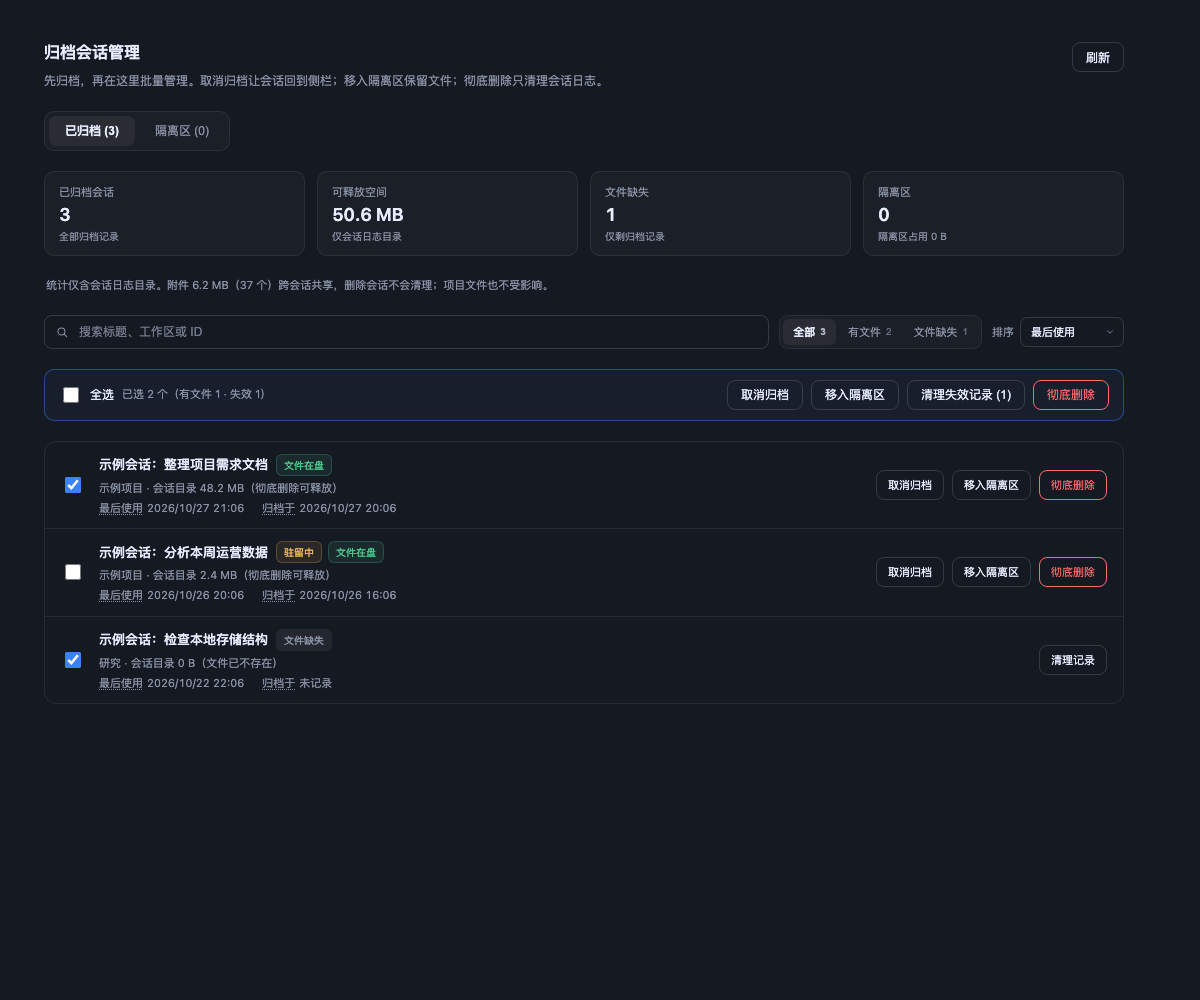
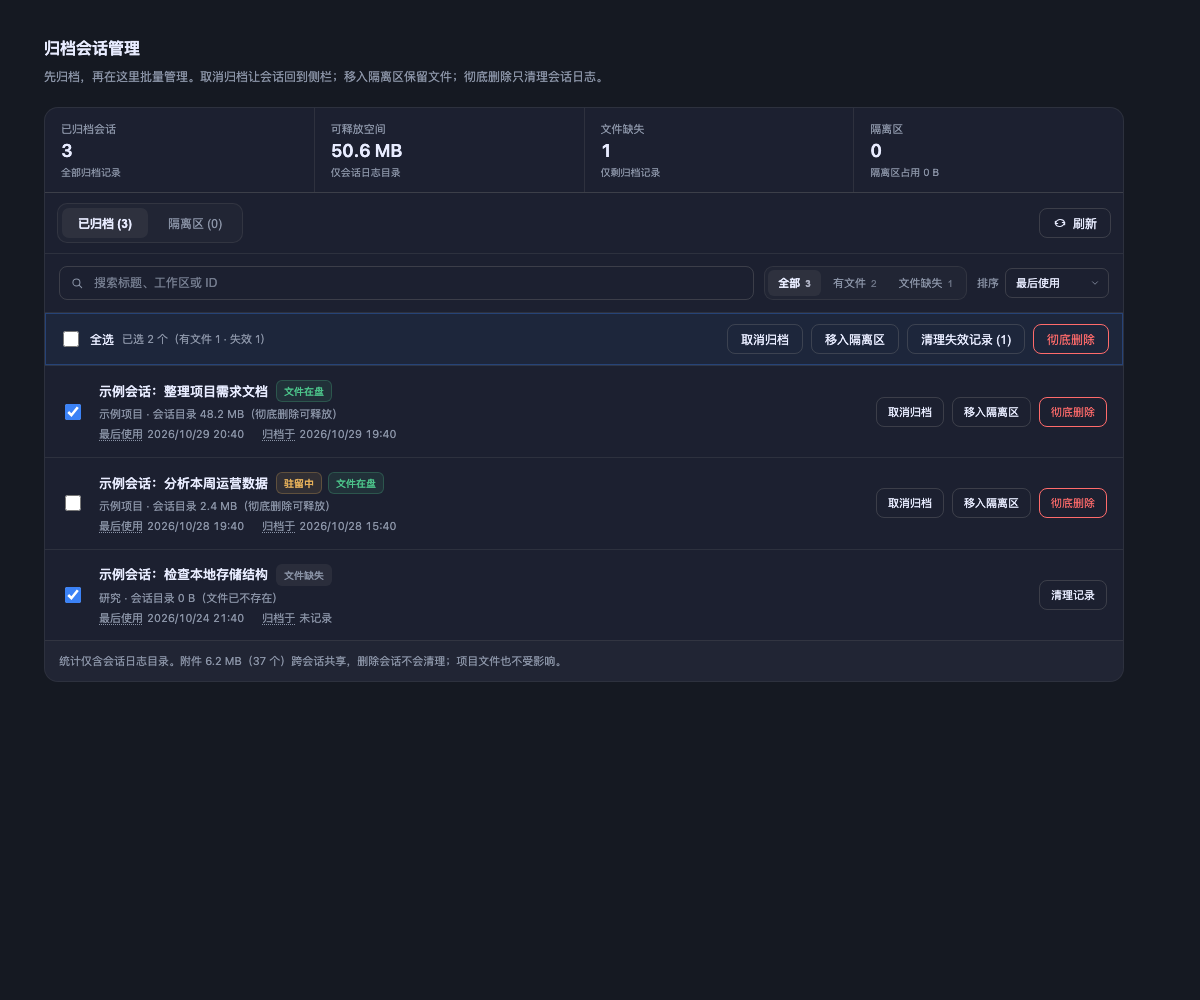
feat: unify workbench layout and empty states

diff --git a/client/index.js b/client/index.js
@@ -464,6 +464,12 @@ window.__ModuleLoader__.load({ id: "dsh-archived-manager", factory: (require) =>
 		".am-head-text{flex:1 1 auto;min-width:0}",
 		".am-title{font-size:16px;line-height:1.35;font-weight:600}",
 		".am-sub{font-size:12px;line-height:1.75;color:var(--dsw-alias-label-secondary,#8a93a6);margin-top:6px;max-width:720px}",
+		".am-workbench{position:relative;display:flex;flex-direction:column;border:1px solid var(--dsw-alias-border-l1,rgba(127,127,127,.2));border-radius:14px;background:var(--dsw-alias-bg-overlay,#1c2030)}",
+		".am-viewbar{display:flex;align-items:center;gap:12px;flex-wrap:wrap;padding:10px 12px;border-bottom:1px solid var(--dsw-alias-border-l1,rgba(127,127,127,.14))}",
+		".am-viewbar .am-tabs{flex:0 0 auto}",
+		".am-viewbar .am-refresh{margin-left:auto}",
+		".am-refresh-icon{width:14px;height:14px;flex:none}",
+		".am-refresh-icon.spinning{animation:am-spin .8s linear infinite}",
 		".am-btn{height:30px;padding:0 13px;border-radius:8px;border:1px solid var(--dsw-alias-border-l2,rgba(127,127,127,.32));background:transparent;color:var(--dsw-alias-label-primary,#e8ecff);font-size:12px;cursor:pointer;white-space:nowrap;display:inline-flex;align-items:center;justify-content:center;gap:6px}",
 		".am-btn{transition:background .12s ease,border-color .12s ease,color .12s ease}",
 		".am-btn:hover:not(:disabled){background:var(--dsw-alias-bg-l1,rgba(127,127,127,.08))}",
@@ -479,17 +485,17 @@ window.__ModuleLoader__.load({ id: "dsh-archived-manager", factory: (require) =>
 		".am-tab{height:30px;padding:0 16px;border-radius:7px;border:none;background:transparent;color:var(--dsw-alias-label-secondary,#8a93a6);font-size:12px;cursor:pointer}",
 		".am-tab:hover{color:var(--dsw-alias-label-primary,#e8ecff)}",
 		".am-tab.active{background:var(--dsw-alias-bg-l2,rgba(127,127,127,.16));color:var(--dsw-alias-label-primary,#e8ecff);font-weight:600}",
-		".am-stats-grid{display:grid;grid-template-columns:repeat(4,minmax(0,1fr));gap:12px}",
-		".am-stat{padding:12px 14px;border:1px solid var(--dsw-alias-border-l1,rgba(127,127,127,.18));border-radius:10px;background:var(--dsw-alias-bg-l1,rgba(127,127,127,.04));min-width:0}",
+		".am-stats-grid{display:grid;grid-template-columns:repeat(4,minmax(0,1fr));gap:1px;background:var(--dsw-alias-border-l1,rgba(127,127,127,.14));border-bottom:1px solid var(--dsw-alias-border-l1,rgba(127,127,127,.14));border-radius:13px 13px 0 0;overflow:hidden}",
+		".am-stat{padding:13px 16px;background:var(--dsw-alias-bg-overlay,#1c2030);min-width:0}",
 		".am-stat-label{font-size:11px;line-height:1.4;color:var(--dsw-alias-label-secondary,#8a93a6);white-space:nowrap;overflow:hidden;text-overflow:ellipsis}",
-		".am-stat-value{font-size:18px;line-height:1.3;font-weight:600;margin-top:4px;font-variant-numeric:tabular-nums}",
+		".am-stat-value{font-size:18px;line-height:1.3;font-weight:600;margin-top:3px;font-variant-numeric:tabular-nums}",
 		".am-stat-hint{font-size:10px;line-height:1.4;margin-top:3px;color:var(--dsw-alias-label-secondary,#8a93a6);white-space:nowrap;overflow:hidden;text-overflow:ellipsis}",
-		".am-toolbar{display:flex;align-items:center;gap:12px;flex-wrap:wrap;padding:10px 14px;border:1px solid var(--dsw-alias-border-l1,rgba(127,127,127,.18));border-radius:10px;background:var(--dsw-alias-bg-l1,rgba(127,127,127,.03))}",
+		".am-toolbar{display:flex;align-items:center;gap:12px;flex-wrap:wrap;padding:11px 14px;border-bottom:1px solid var(--dsw-alias-border-l1,rgba(127,127,127,.12));background:transparent}",
 		".am-toolbar-group{display:flex;align-items:center;gap:8px;flex-wrap:wrap}",
-		".am-toolbar.active{border-color:rgba(59,130,246,.45);background:rgba(59,130,246,.05)}",
+		".am-toolbar.active{background:rgba(59,130,246,.06);box-shadow:inset 0 0 0 1px rgba(59,130,246,.32)}",
 		".am-spacer{flex:1 1 auto}",
 		".am-stats{font-size:11px;line-height:1.5;color:var(--dsw-alias-label-secondary,#8a93a6)}",
-		".am-controls{display:flex;align-items:center;gap:10px;flex-wrap:wrap}",
+		".am-controls{display:flex;align-items:center;gap:10px;flex-wrap:wrap;padding:12px 14px;border-bottom:1px solid var(--dsw-alias-border-l1,rgba(127,127,127,.12))}",
 		".am-search{display:flex;align-items:center;gap:8px;flex:1 1 260px;min-width:200px;height:32px;padding:0 10px;border:1px solid var(--dsw-alias-border-l2,rgba(127,127,127,.28));border-radius:8px;background:transparent;color:var(--dsw-alias-label-primary,#e8ecff)}",
 		".am-search:focus-within{border-color:var(--dsw-alias-button-info-fill,#3b82f6);box-shadow:0 0 0 2px rgba(59,130,246,.15)}",
 		".am-search input{flex:1 1 auto;min-width:0;border:0;outline:0;background:transparent;color:inherit;font-size:12px;appearance:none}",
@@ -518,20 +524,20 @@ window.__ModuleLoader__.load({ id: "dsh-archived-manager", factory: (require) =>
 		".am-select-option:focus-visible{outline:2px solid rgba(59,130,246,.45);outline-offset:-2px}",
 		".am-select-option.selected,.am-select-option.selected:hover,.am-select-option.selected:focus-visible{background:rgba(59,130,246,.14);color:var(--dsw-alias-button-info-fill,#3b82f6);font-weight:600}",
 		".am-select-check{font-size:11px;line-height:1}",
-		".am-scope{font-size:11px;line-height:1.65;color:var(--dsw-alias-label-secondary,#8a93a6);padding:0 2px}",
+		".am-scope{font-size:11px;line-height:1.65;color:var(--dsw-alias-label-secondary,#8a93a6);padding:11px 14px;border-top:1px solid var(--dsw-alias-border-l1,rgba(127,127,127,.12));border-radius:0 0 13px 13px;background:var(--dsw-alias-bg-l1,rgba(127,127,127,.025))}",
 		".am-meta-label{text-decoration:underline dotted;text-underline-offset:2px;cursor:help}",
-		".am-report{display:flex;flex-direction:column;gap:7px;padding:10px 12px;border:1px solid rgba(232,178,91,.35);border-radius:10px;background:rgba(232,178,91,.06)}",
+		".am-report{display:flex;flex-direction:column;gap:7px;padding:12px 14px;border-bottom:1px solid rgba(232,178,91,.3);background:rgba(232,178,91,.06)}",
 		".am-report-title{font-size:12px;font-weight:600;color:var(--dsw-alias-state-warning-primary,#d97706)}",
 		".am-report-list{display:flex;flex-direction:column;gap:3px;font-size:11px;line-height:1.55;color:var(--dsw-alias-label-secondary,#8a93a6)}",
 		".am-report-item{white-space:nowrap;overflow:hidden;text-overflow:ellipsis}",
 		".am-report-actions{display:flex;justify-content:flex-end}",
-		".am-retention{display:flex;align-items:center;gap:10px;flex-wrap:wrap;padding:10px 14px;border:1px solid var(--dsw-alias-border-l1,rgba(127,127,127,.18));border-radius:10px;background:var(--dsw-alias-bg-l1,rgba(127,127,127,.03));font-size:11px;line-height:1.6;color:var(--dsw-alias-label-secondary,#8a93a6)}",
+		".am-retention{display:flex;align-items:center;gap:10px;flex-wrap:wrap;padding:12px 14px;border-top:1px solid var(--dsw-alias-border-l1,rgba(127,127,127,.12));background:var(--dsw-alias-bg-l1,rgba(127,127,127,.035));font-size:11px;line-height:1.6;color:var(--dsw-alias-label-secondary,#8a93a6)}",
 		".am-retention-label{font-weight:600;color:var(--dsw-alias-label-primary,#e8ecff)}",
 		".am-retention-hint{flex:1 1 300px;min-width:220px}",
 		".am-retention-warn{color:var(--dsw-alias-state-warning-primary,#d97706);font-weight:500}",
 		".am-empty-actions{display:flex;gap:8px;margin-top:2px}",
-		".am-list{display:flex;flex-direction:column;border:1px solid var(--dsw-alias-border-l1,rgba(127,127,127,.18));border-radius:12px;overflow:hidden}",
-		".am-row{display:grid;grid-template-columns:24px minmax(0,1fr) auto;align-items:center;gap:14px;padding:12px 16px;border-bottom:1px solid var(--dsw-alias-border-l1,rgba(127,127,127,.12));background:transparent}",
+		".am-list{display:flex;flex-direction:column;overflow:hidden}",
+		".am-row{display:grid;grid-template-columns:24px minmax(0,1fr) auto;align-items:center;gap:14px;padding:14px 16px;border-bottom:1px solid var(--dsw-alias-border-l1,rgba(127,127,127,.12));background:transparent}",
 		".am-row:last-child{border-bottom:none}",
 		".am-row{transition:background .12s ease}",
 		".am-row:hover{background:var(--dsw-alias-bg-l1,rgba(127,127,127,.05))}",
@@ -553,8 +559,8 @@ window.__ModuleLoader__.load({ id: "dsh-archived-manager", factory: (require) =>
 		".am-check{width:16px;height:16px;flex:none;accent-color:var(--dsw-alias-button-info-fill,#3b82f6);cursor:pointer}",
 		".am-check:disabled{cursor:not-allowed;opacity:.5}",
 		".am-checkline{display:flex;align-items:center;gap:8px;font-size:12px;color:var(--dsw-alias-label-primary,#e8ecff);cursor:pointer}",
-		".am-empty-card{display:flex;flex-direction:column;align-items:center;gap:8px;padding:52px 20px;border:1px dashed var(--dsw-alias-border-l2,rgba(127,127,127,.32));border-radius:12px;text-align:center}",
-		".am-empty-icon{width:44px;height:44px;border-radius:50%;display:flex;align-items:center;justify-content:center;background:var(--dsw-alias-bg-l2,rgba(127,127,127,.12));color:var(--dsw-alias-label-secondary,#8a93a6)}",
+		".am-empty-card{display:flex;flex-direction:column;align-items:center;gap:9px;padding:44px 20px;text-align:center;background:var(--dsw-alias-bg-l1,rgba(127,127,127,.025))}",
+		".am-empty-icon{width:40px;height:40px;border-radius:12px;display:flex;align-items:center;justify-content:center;background:var(--dsw-alias-bg-l2,rgba(127,127,127,.12));color:var(--dsw-alias-label-secondary,#8a93a6)}",
 		".am-empty-title{font-size:13px;font-weight:600}",
 		".am-empty-hint{font-size:11px;line-height:1.7;color:var(--dsw-alias-label-secondary,#8a93a6);max-width:420px}",
 		".am-empty{font-size:12px;line-height:1.7;color:var(--dsw-alias-label-secondary,#8a93a6);padding:18px 12px;text-align:center}",
@@ -572,14 +578,14 @@ window.__ModuleLoader__.load({ id: "dsh-archived-manager", factory: (require) =>
 		".am-error-card{display:flex;flex-direction:column;align-items:center;gap:10px;padding:40px 20px;border:1px solid rgba(217,45,32,.22);border-radius:12px;background:rgba(217,45,32,.04);text-align:center}",
 		".am-error-icon{display:flex;color:var(--dsw-alias-state-error-primary,#d92d20)}",
 		".am-error-text{font-size:12px;line-height:1.7;color:var(--dsw-alias-state-error-primary,#d92d20);max-width:560px}",
-		".am-loading{display:flex;align-items:center;justify-content:center;gap:10px;padding:64px 0;font-size:12px;color:var(--dsw-alias-label-secondary,#8a93a6)}",
+		".am-loading{display:flex;align-items:center;justify-content:center;gap:10px;padding:48px 0;font-size:12px;color:var(--dsw-alias-label-secondary,#8a93a6)}",
 		".am-spinner{width:16px;height:16px;border-radius:50%;border:2px solid var(--dsw-alias-border-l2,rgba(127,127,127,.28));border-top-color:var(--dsw-alias-button-info-fill,#3b82f6);animation:am-spin .8s linear infinite}",
 		"@keyframes am-spin{to{transform:rotate(360deg)}}",
 		"@keyframes am-fade{from{opacity:0}to{opacity:1}}",
 		"@keyframes am-pop{from{opacity:0;transform:translateY(6px) scale(.98)}to{opacity:1;transform:none}}",
 		"@keyframes am-menu{from{opacity:0;transform:translateY(-4px) scale(.98)}to{opacity:1;transform:none}}",
-		"@media (prefers-reduced-motion:reduce){.am-modal,.am-modal-backdrop,.am-spinner,.am-select-menu{animation:none}}",
-		"@media (max-width:980px){.am-stats-grid{grid-template-columns:repeat(2,minmax(0,1fr))}}",
+		"@media (prefers-reduced-motion:reduce){.am-modal,.am-modal-backdrop,.am-spinner,.am-select-menu,.am-refresh-icon.spinning{animation:none}}",
+		"@media (max-width:760px){.am-stats-grid{grid-template-columns:repeat(2,minmax(0,1fr))}}",
 		"@media (max-width:420px){.am-stats-grid{grid-template-columns:minmax(0,1fr)}}",
 		"@media (max-width:860px){.am-row{grid-template-columns:24px minmax(0,1fr)}.am-row-actions{grid-column:2;justify-self:start;padding-top:6px}.am-row-plain{grid-template-columns:minmax(0,1fr)}.am-row-plain .am-row-actions{grid-column:1}}",
 		"@media (max-width:720px){.am-search{flex-basis:100%}.am-sort{margin-left:auto}}",
@@ -1250,6 +1256,34 @@ window.__ModuleLoader__.load({ id: "dsh-archived-manager", factory: (require) =>
 			]);
 		}
 
+		function refreshButton() {
+			return h("button", {
+				key: "refresh",
+				type: "button",
+				className: "am-btn am-refresh",
+				disabled: busy || phase === "loading",
+				title: tr("refresh"),
+				"aria-label": tr("refresh"),
+				onClick: function () { void load(); }
+			}, [
+				h("svg", {
+					key: "icon",
+					className: phase === "loading" ? "am-refresh-icon spinning" : "am-refresh-icon",
+					viewBox: "0 0 24 24",
+					fill: "none",
+					stroke: "currentColor",
+					strokeWidth: 1.8,
+					strokeLinecap: "round",
+					strokeLinejoin: "round",
+					"aria-hidden": "true"
+				}, [
+					h("path", { key: "a", d: "M20 11a8.1 8.1 0 0 0-15.5 2m-.5-4v4h4" }),
+					h("path", { key: "b", d: "M4 13a8.1 8.1 0 0 0 15.5-2m.5 4v-4h-4" })
+				]),
+				h("span", { key: "text" }, tr("refresh"))
+			]);
+		}
+
 		function emptyCard(key, title, hint, action) {
 			return h("div", { key: key, className: "am-empty-card" }, [
 				h("div", { key: "icon", className: "am-empty-icon", "aria-hidden": "true" },
@@ -1551,18 +1585,12 @@ window.__ModuleLoader__.load({ id: "dsh-archived-manager", factory: (require) =>
 		}
 
 		var children = [];
+		var workspace = [];
 		children.push(h("div", { key: "head", className: "am-head" }, [
 			h("div", { key: "text", className: "am-head-text" }, [
 				h("div", { key: "title", className: "am-title" }, tr("title")),
 				h("div", { key: "sub", className: "am-sub" }, tr("subtitle"))
-			]),
-			h("button", {
-				key: "refresh",
-				type: "button",
-				className: "am-btn",
-				disabled: busy || phase === "loading",
-				onClick: function () { void load(); }
-			}, tr("refresh"))
+			])
 		]));
 
 		if (toast !== null) {
@@ -1574,32 +1602,45 @@ window.__ModuleLoader__.load({ id: "dsh-archived-manager", factory: (require) =>
 			}, toast.text));
 		}
 
-		children.push(h("div", { key: "tabs", className: "am-tabs", role: "tablist", "aria-label": tr("title") }, [
-			h("button", {
-				key: "archived",
-				type: "button",
-				role: "tab",
-				"aria-selected": tab === "archived",
-				className: "am-tab" + (tab === "archived" ? " active" : ""),
-				onClick: function () { setTab("archived"); setConfirm(null); setReport(null); }
-			}, tr("tabArchived") + " (" + items.length + ")"),
-			h("button", {
-				key: "removed",
-				type: "button",
-				role: "tab",
-				"aria-selected": tab === "removed",
-				className: "am-tab" + (tab === "removed" ? " active" : ""),
-				onClick: function () { setTab("removed"); setConfirm(null); setReport(null); }
-			}, tr("tabRemoved") + " (" + removed.length + ")")
+		if (phase === "ready") {
+			workspace.push(h("div", { key: "stats-grid", className: "am-stats-grid" }, [
+				statCard("archived", tr("statArchived"), String(items.length), tr("statArchivedHint")),
+				statCard("releasable", tr("statReleasable"), fmtSize(archivedBytes), tr("statReleasableHint")),
+				statCard("missing", tr("statMissing"), String(missingCount), tr("statMissingHint")),
+				statCard("trash", tr("statTrash"), String(removed.length), tr("statTrashHint", { size: fmtSize(removedBytes) }))
+			]));
+		}
+
+		workspace.push(h("div", { key: "viewbar", className: "am-viewbar" }, [
+			h("div", { key: "tabs", className: "am-tabs", role: "tablist", "aria-label": tr("title") }, [
+				h("button", {
+					key: "archived",
+					type: "button",
+					role: "tab",
+					"aria-selected": tab === "archived",
+					className: "am-tab" + (tab === "archived" ? " active" : ""),
+					onClick: function () { setTab("archived"); setConfirm(null); setReport(null); }
+				}, tr("tabArchived") + " (" + items.length + ")"),
+				h("button", {
+					key: "removed",
+					type: "button",
+					role: "tab",
+					"aria-selected": tab === "removed",
+					className: "am-tab" + (tab === "removed" ? " active" : ""),
+					onClick: function () { setTab("removed"); setConfirm(null); setReport(null); }
+				}, tr("tabRemoved") + " (" + removed.length + ")")
+			]),
+			h("div", { key: "space", className: "am-spacer" }),
+			refreshButton()
 		]));
 
 		if (phase === "loading") {
-			children.push(h("div", { key: "loading", className: "am-loading" }, [
+			workspace.push(h("div", { key: "loading", className: "am-loading" }, [
 				h("span", { key: "spinner", className: "am-spinner" }),
 				h("span", { key: "text" }, tr("loading"))
 			]));
 		} else if (phase === "failed") {
-			children.push(h("div", { key: "error", className: "am-error-card" }, [
+			workspace.push(h("div", { key: "error", className: "am-error-card" }, [
 				h("div", { key: "icon", className: "am-error-icon", "aria-hidden": "true" },
 					h("svg", {
 						width: 24,
@@ -1625,22 +1666,11 @@ window.__ModuleLoader__.load({ id: "dsh-archived-manager", factory: (require) =>
 				}, tr("retry"))
 			]));
 		} else {
-			if (items.length > 0 || removed.length > 0) {
-				children.push(h("div", { key: "stats-grid", className: "am-stats-grid" }, [
-					statCard("archived", tr("statArchived"), String(items.length), tr("statArchivedHint")),
-					statCard("releasable", tr("statReleasable"), fmtSize(archivedBytes), tr("statReleasableHint")),
-					statCard("missing", tr("statMissing"), String(missingCount), tr("statMissingHint")),
-					statCard("trash", tr("statTrash"), String(removed.length), tr("statTrashHint", { size: fmtSize(removedBytes) }))
-				]));
-				children.push(h("div", { key: "scope", className: "am-scope" },
-					tr("scopeNote", { size: fmtSize(attachments.bytes), files: attachments.files })
-				));
-			}
 			if (tab === "archived") {
 				if (items.length === 0) {
-					children.push(emptyCard("empty", tr("emptyTitle"), tr("emptyHint")));
+					workspace.push(emptyCard("empty", tr("emptyTitle"), tr("emptyHint")));
 				} else {
-					children.push(h("div", { key: "controls", className: "am-controls" }, [
+					workspace.push(h("div", { key: "controls", className: "am-controls" }, [
 						h("div", { key: "search", className: "am-search" }, [
 							searchGlyph(),
 							h("input", {
@@ -1676,7 +1706,7 @@ window.__ModuleLoader__.load({ id: "dsh-archived-manager", factory: (require) =>
 						query !== "" || filter !== "all" ? h("span", { key: "showing", className: "am-stats" },
 							tr("showing", { shown: sortedItems.length, total: items.length })) : null
 					]));
-					if (sortedItems.length > 0) children.push(h("div", { key: "toolbar", className: "am-toolbar" + (selected.length > 0 ? " active" : "") }, [
+					if (sortedItems.length > 0) workspace.push(h("div", { key: "toolbar", className: "am-toolbar" + (selected.length > 0 ? " active" : "") }, [
 						h("div", { key: "left", className: "am-toolbar-group" }, [
 							h("label", { key: "all", className: "am-checkline" }, [
 								h("input", {
@@ -1759,7 +1789,7 @@ window.__ModuleLoader__.load({ id: "dsh-archived-manager", factory: (require) =>
 						])
 					]));
 					if (report !== null) {
-						children.push(h("div", { key: "report", className: "am-report" }, [
+						workspace.push(h("div", { key: "report", className: "am-report" }, [
 							h("div", { key: "title", className: "am-report-title" }, report.title),
 							h("div", { key: "list", className: "am-report-list" }, report.failures.map(function (failure, index) {
 								return h("div", { key: index, className: "am-report-item", title: failure.title + " · " + failure.reason },
@@ -1775,7 +1805,7 @@ window.__ModuleLoader__.load({ id: "dsh-archived-manager", factory: (require) =>
 							)
 						]));
 					}
-					children.push(sortedItems.length === 0
+					workspace.push(sortedItems.length === 0
 						? emptyCard("filtered", tr("filteredEmpty"), tr("filteredEmptyHint"),
 							h("button", {
 								key: "clear",
@@ -1787,7 +1817,7 @@ window.__ModuleLoader__.load({ id: "dsh-archived-manager", factory: (require) =>
 				}
 			} else {
 				if (removed.length > 0) {
-					children.push(h("div", { key: "controls", className: "am-controls" }, [
+					workspace.push(h("div", { key: "controls", className: "am-controls" }, [
 						h("div", { key: "search", className: "am-search" }, [
 							searchGlyph(),
 							h("input", {
@@ -1817,7 +1847,7 @@ window.__ModuleLoader__.load({ id: "dsh-archived-manager", factory: (require) =>
 						removedQuery !== "" ? h("span", { key: "showing", className: "am-stats" },
 							tr("showing", { shown: sortedRemoved.length, total: removed.length })) : null
 					]));
-					if (sortedRemoved.length > 0) children.push(h("div", { key: "toolbar", className: "am-toolbar" + (removedSelected.length > 0 ? " active" : "") }, [
+					if (sortedRemoved.length > 0) workspace.push(h("div", { key: "toolbar", className: "am-toolbar" + (removedSelected.length > 0 ? " active" : "") }, [
 						h("div", { key: "left", className: "am-toolbar-group" }, [
 							h("label", { key: "all", className: "am-checkline" }, [
 								h("input", {
@@ -1869,7 +1899,7 @@ window.__ModuleLoader__.load({ id: "dsh-archived-manager", factory: (require) =>
 						])
 					]));
 				}
-				children.push(h("div", { key: "retention", className: "am-retention" }, [
+				workspace.push(h("div", { key: "retention", className: "am-retention" }, [
 					h("span", { key: "label", className: "am-retention-label" }, tr("retentionTitle")),
 					h("div", { key: "select", className: "am-sort" }, [
 						h("span", { key: "text" }, tr("retentionLabel")),
@@ -1886,7 +1916,7 @@ window.__ModuleLoader__.load({ id: "dsh-archived-manager", factory: (require) =>
 						: null
 				]));
 				if (report !== null) {
-					children.push(h("div", { key: "report", className: "am-report" }, [
+					workspace.push(h("div", { key: "report", className: "am-report" }, [
 						h("div", { key: "title", className: "am-report-title" }, report.title),
 						h("div", { key: "list", className: "am-report-list" }, report.failures.map(function (failure, index) {
 							return h("div", { key: index, className: "am-report-item", title: failure.title + " · " + failure.reason },
@@ -1902,7 +1932,7 @@ window.__ModuleLoader__.load({ id: "dsh-archived-manager", factory: (require) =>
 						)
 					]));
 				}
-				children.push(removed.length === 0
+				workspace.push(removed.length === 0
 					? emptyCard("empty", tr("emptyRemovedTitle"), tr("emptyRemovedHint"))
 					: sortedRemoved.length === 0
 						? emptyCard("filtered", tr("removedEmptyFilter"), tr("filteredEmptyHint"),
@@ -1916,6 +1946,12 @@ window.__ModuleLoader__.load({ id: "dsh-archived-manager", factory: (require) =>
 			}
 		}
 
+		workspace.push(confirmPanel());		if (phase === "ready") {
+			workspace.push(h("div", { key: "scope", className: "am-scope" },
+				tr("scopeNote", { size: fmtSize(attachments.bytes), files: attachments.files })
+			));
+		}
+		children.push(h("section", { key: "workbench", className: "am-workbench", role: "region", "aria-label": tr("title") }, workspace));
 		children.push(confirmPanel());
 		return h("div", { className: "am-page", "aria-busy": busy === true }, children);
 	}

diff --git a/lib/host.js b/lib/host.js
@@ -958,7 +958,7 @@ export function createManager(ctx) {
     saveSettings,
     sweepTrash,
     attachmentStats,
-    version: '0.2.2',
+    version: '0.2.3',
   };
 }
 

diff --git a/README.md b/README.md
@@ -26,7 +26,7 @@
 
 1. 打开 **设置 → 插件 → 安装**，填入 GitHub spec：
    ```
-   github:chen1pengvincent/dsh-archived-manager#v0.2.2
+   github:chen1pengvincent/dsh-archived-manager#v0.2.3
    ```
 2. 安装完成后**完全退出并重开 DSH**（⌘Q），再 `Cmd+Shift+R` 硬刷新页面。
 3. 入口在「设置 → 归档会话」。
@@ -59,19 +59,25 @@
 
 ![布局预览（示意图，模拟数据）](docs/ui-preview.png)
 
+空状态也保留紧凑概况与范围说明：
+
+![空状态预览（示意图，模拟数据）](docs/ui-preview-empty.png)
+
 自绘下拉打开态（非系统原生 select）：
 
 ![自绘排序下拉（示意图）](docs/ui-preview-menu.png)
 
-- 顶部区：标题、说明、刷新。
-- 概览区：有数据时显示 4 张指标卡（已归档会话 / 可释放空间 / 文件缺失 / 隔离区）；全空时只保留空状态，避免零值噪音。
-- 页签区：已归档 / 隔离区，分段式切换。
-- 控制区：搜索框、状态筛选、**自绘下拉**排序（不调用系统原生 `select`，带打开动画、键盘导航与选中态）；仅在搜索/筛选时显示“显示 X / Y”，平时不占视觉噪音。
+- 顶部区：仅保留标题与说明，避免刷新按钮悬空。
+- 工作台：概况、页签与刷新、检索/批量区、列表/空状态、保留策略、范围说明统一收拢在一个带分隔线的卡片内，形成明确区块。
+- 概况区：数据就绪后显示 4 个紧凑指标（已归档会话 / 可释放空间 / 文件缺失 / 隔离区）；零数据也保留概况，不再只剩一个巨大虚线框。
+- 页签与刷新：已归档 / 隔离区分段切换，刷新图标与文字放在同一工具条右侧。
+- 控制区：搜索框、状态筛选、**自绘下拉**排序（不调用系统原生 `select`，带打开动画、键盘导航与选中态）；仅在搜索/筛选时显示“显示 X / Y”。
 - 操作条：左侧全选与已选拆分统计，右侧取消归档 / 移入隔离区 / 清理失效记录 / 彻底删除；有选中时整条高亮。
-- 列表区：卡片式容器；每行标题 + 状态徽章、两行元信息（工作区/体积、最后使用/归档时间）、右侧三个短按钮。**两个时间各自成块、可自动换行，完整展示，不省略、不依赖 hover 提示**。
+- 列表区：每行标题 + 状态徽章、两行元信息（工作区/体积、最后使用/归档时间）、右侧三个短按钮。**两个时间各自成块、可自动换行，完整展示，不省略、不依赖 hover 提示**。
 - 隔离区：独立的保留期限**自绘下拉**、批量恢复、批量删除、清空；时间同样完整展示。
+- 范围说明：附件与删除范围只在数据就绪后显示，加载或首次失败时不展示假零值。
 - 状态页：加载（旋转指示）、失败（错误卡片 + 重试）、空（图标 + 说明）、筛选无结果（清除筛选）。
-- 响应式：<980px 指标 2×2，<860px 行操作移到下一行，<720px 搜索独占一行，<420px 指标单列；时间在窄屏自动换行，不截断。
+- 响应式：<760px 指标 2×2，<860px 行操作移到下一行，<720px 搜索独占一行，<420px 指标单列；时间在窄屏自动换行，不截断。
 - 确认统一为模态弹窗（遮罩 / ESC / 焦点圈定），危险动作红底白字。
 
 ## 安全设计
@@ -126,7 +132,7 @@
 npm test
 ```
 
-52 项测试，覆盖：列表/标题/体积、附件统计、移入隔离区与 manifest、运行中拒绝、非归档拒绝、彻底删除确认、取消归档、隔离区单条删除、保留策略与过期清理、定时提醒停止、恢复与路径校验（含 manifest 穿越）、悬空 id、清空隔离区、路由鉴权（回环/同源/自定义头/405/唯一路径）、客户端设置页注册/搜索/筛选/隔离区/保留策略/模态渲染。
+53 项测试，覆盖：列表/标题/体积、附件统计、移入隔离区与 manifest、运行中拒绝、非归档拒绝、彻底删除确认、取消归档、隔离区单条删除、保留策略与过期清理、定时提醒停止、恢复与路径校验（含 manifest 穿越）、悬空 id、清空隔离区、路由鉴权（回环/同源/自定义头/405/唯一路径）、客户端设置页注册/搜索/筛选/隔离区/保留策略/模态渲染。
 
 ## 已知限制
 
@@ -153,7 +159,7 @@ All operations run locally in the DSH Host. There is no telemetry and no externa
 
 1. Open **DSH → Settings → Plugins → Install** and enter:
    ```
-   github:chen1pengvincent/dsh-archived-manager#v0.2.2
+   github:chen1pengvincent/dsh-archived-manager#v0.2.3
    ```
 2. Fully quit DSH (⌘Q), reopen it, then hard-refresh the page (`Cmd+Shift+R`).
 3. Open **Settings → Archived Sessions**.
